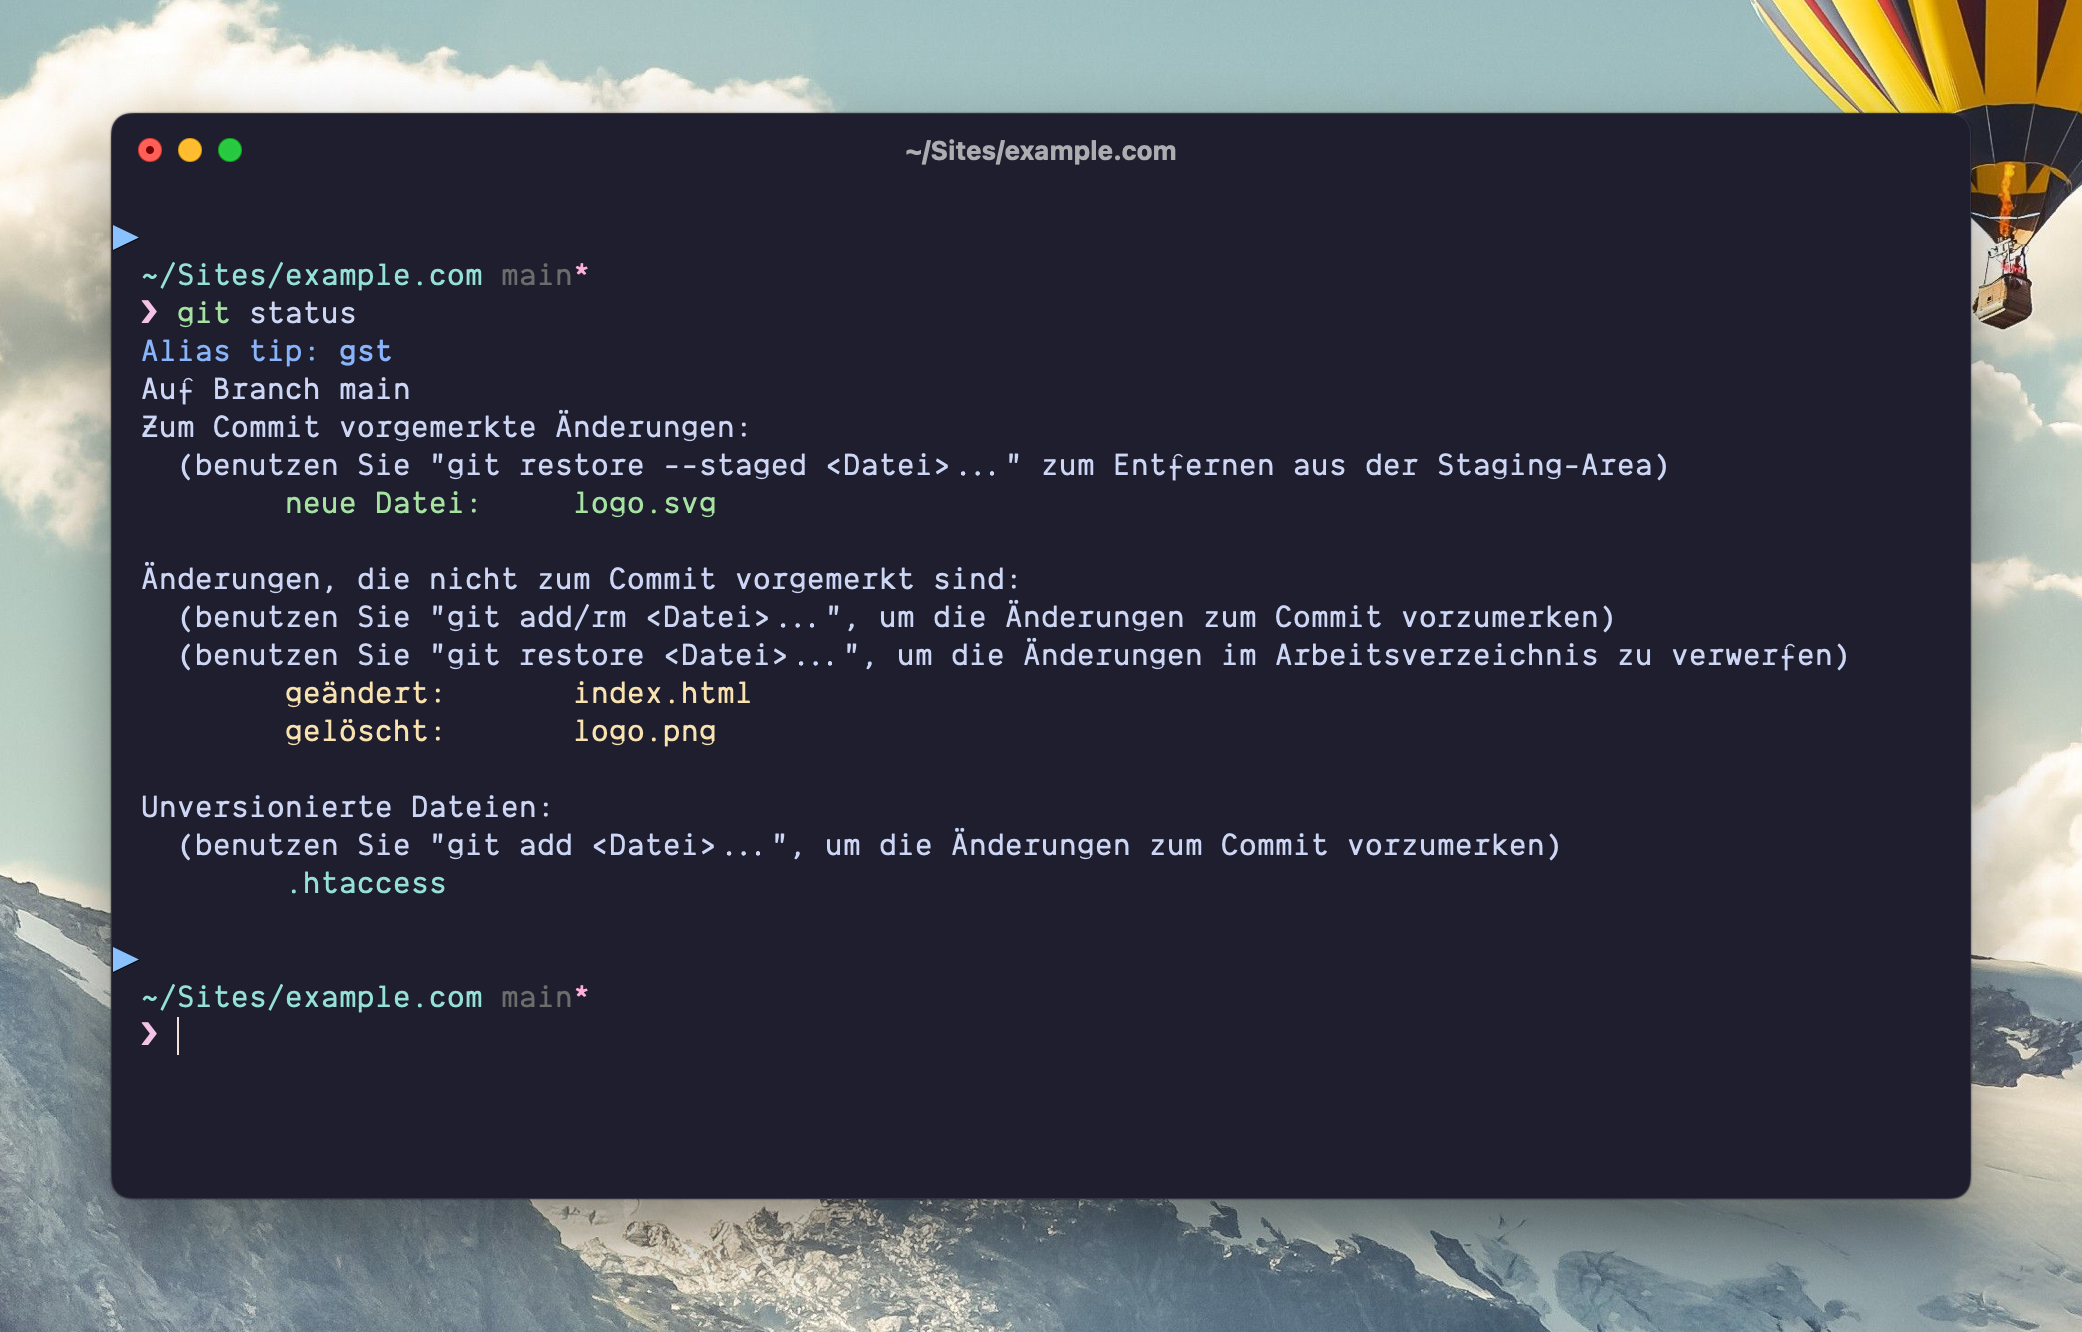
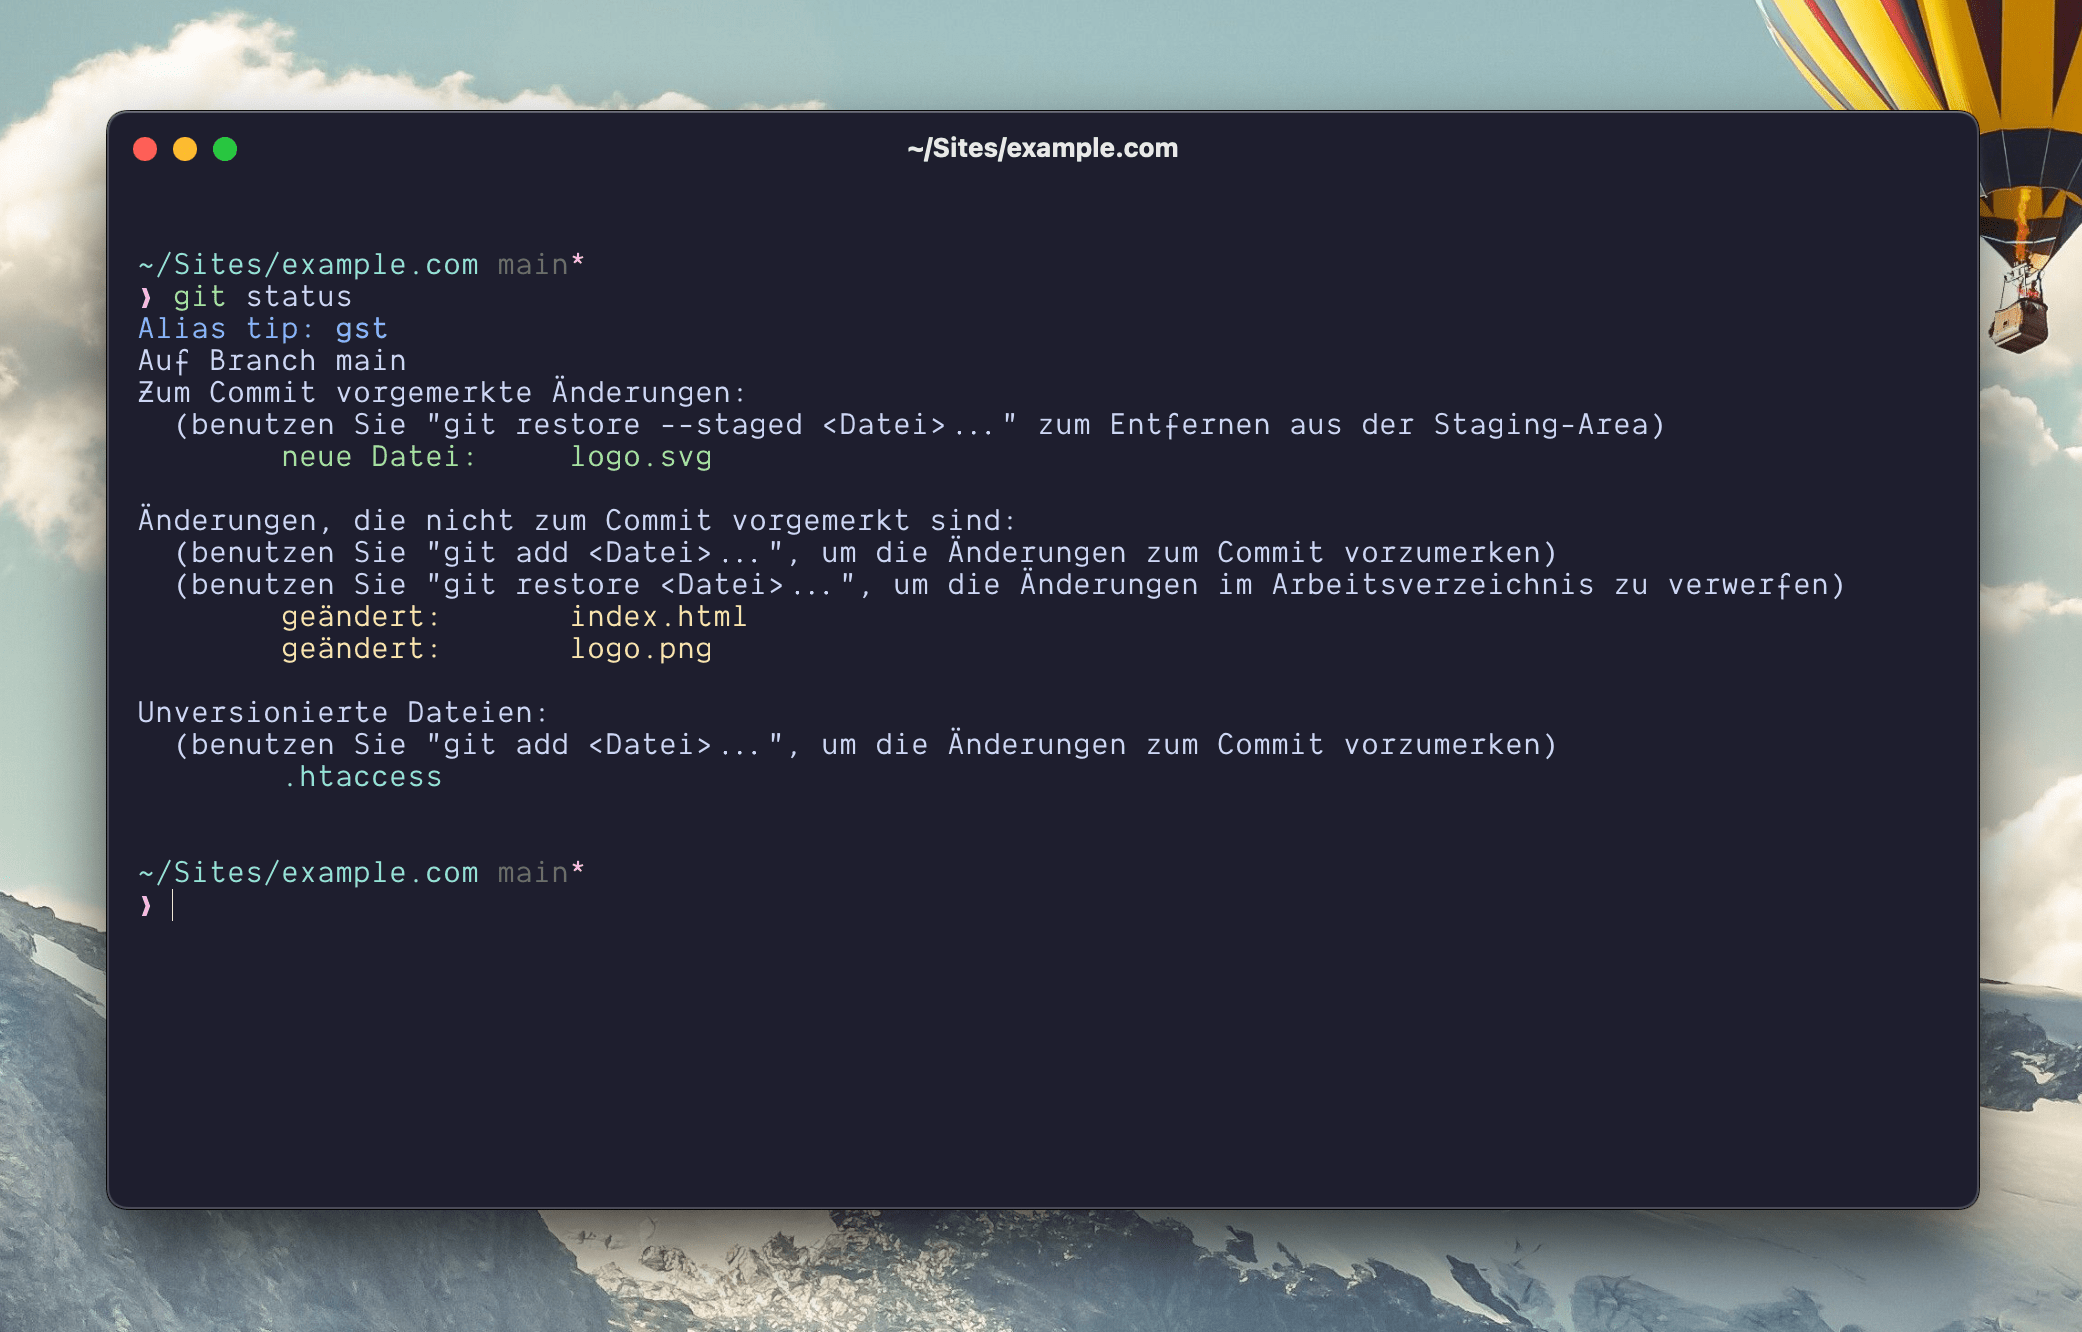
Prefer Ghostty over iTerm2.

diff --git a/README.md b/README.md
@@ -88,7 +88,6 @@ This also installs Homebrew if it is not yet installed.
 * [The Silver Searcher](https://geoff.greer.fm/ag/)
 * [curlie](https://rs.github.io/curlie/), an awesome frontend for `curl`
 * [tree](https://oldmanprogrammer.net/source.php?dir=projects/tree)
-* [up](https://github.com/akavel/up) for instant live preview when piping stuff
 * [lynx](https://lynx.invisible-island.net/) because I ♥ lynx
 * Some more stuff, especially more recent versions of some macOS tools.
 
@@ -140,7 +139,8 @@ I use [Pure](https://github.com/sindresorhus/pure) for my zsh prompt with a [Cat
 
 #### The nerdy details
 
-* Terminal emulator: [iTerm2](https://iterm2.com/) (its settings are [synced](https://github.com/mrcgrtz/dotfiles/blob/main/init/terminal/com.googlecode.iterm2.plist))
+* Terminal emulator: [Ghostty](https://ghostty.org/) (its settings are [synced](https://github.com/mrcgrtz/dotfiles/blob/main/init/terminal/ghostty.config))
+* Theme: [Catppuccin Mocha](https://github.com/catppuccin/ghostty)
 * Font: [Dank Mono](https://philpl.gumroad.com/l/dank-mono)
 * Wallpaper: [Balloons in the Mountains](https://www.reddit.com/r/wallpapers/comments/470cur/balloons_in_the_mountains/)
 
